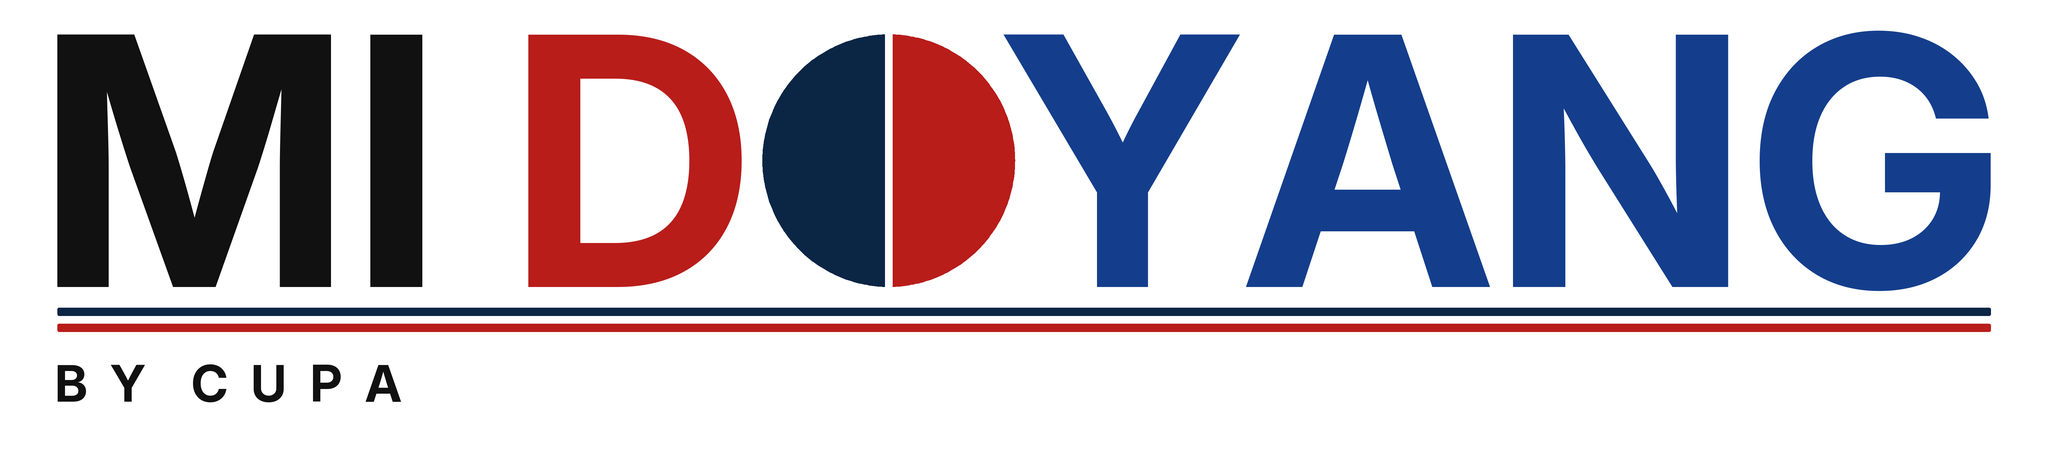
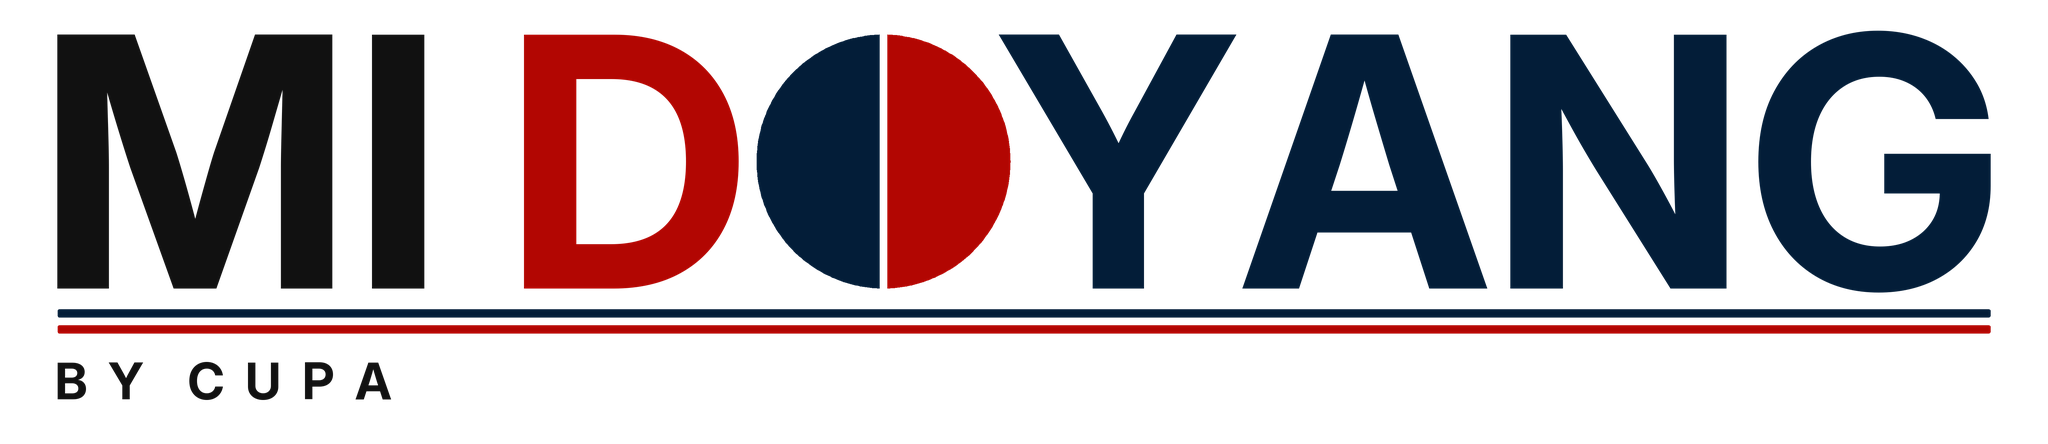
feat(marca): recrea la suite completa de 8 formatos oficiales OVR CUPA para Mi Doyang con halo blanco

diff --git a/app/lib/theme/logo_mi_doyang.dart b/app/lib/theme/logo_mi_doyang.dart
@@ -27,12 +27,12 @@ class LogoMiDoyang extends StatelessWidget {
     this.altoPersonalizado,
   });
 
-  static const double _viewBoxW = 1784.65;
-  static const double _viewBoxH = 400.0;
+  static const double _viewBoxW = 1776.65;
+  static const double _viewBoxH = 385.0;
 
   @override
   Widget build(BuildContext context) {
-    final alto = altoPersonalizado ?? (compacto ? 38.0 : 52.0);
+    final alto = altoPersonalizado ?? (compacto ? 40.0 : 54.0);
     final ancho = alto * (_viewBoxW / _viewBoxH);
 
     return Semantics(
@@ -44,9 +44,18 @@ class LogoMiDoyang extends StatelessWidget {
         child: SizedBox(
           width: ancho,
           height: alto,
-          child: CustomPaint(
-            painter: _PintorLogoCorporativoCupa(sobreOscuro: sobreOscuro),
-          ),
+          child: sobreOscuro
+              ? Image.asset(
+                  'assets/imagenes/logo_mi_doyang_halo.png',
+                  fit: BoxFit.contain,
+                  filterQuality: FilterQuality.high,
+                  errorBuilder: (_, _, _) => const CustomPaint(
+                    painter: _PintorLogoCorporativoCupa(sobreOscuro: true),
+                  ),
+                )
+              : const CustomPaint(
+                  painter: _PintorLogoCorporativoCupa(sobreOscuro: false),
+                ),
         ),
       ),
     );
@@ -58,15 +67,15 @@ class _PintorLogoCorporativoCupa extends CustomPainter {
 
   const _PintorLogoCorporativoCupa({required this.sobreOscuro});
 
-  static const double _vbW = 1784.65;
-  static const double _vbH = 400.0;
+  static const double _vbW = 1776.65;
+  static const double _vbH = 385.0;
   static const double _wordmarkLeft = 50.0;
-  static const double _wordmarkWidth = 1684.65;
+  static const double _wordmarkWidth = 1676.65;
   static const double _baselineY = 250.0;
-  static const double _subY = 350.0;
+  static const double _subY = 346.0;
   static const double _scaleMain = 0.147651;
   static const double _scaleSub = 0.021477;
-  static const double _oCx = 774.49;
+  static const double _oCx = 766.49;
   static const double _oCy = 140.0;
   static const double _oR = 110.0;
   static const double _oGapHalf = 3.5;
@@ -74,21 +83,21 @@ class _PintorLogoCorporativoCupa extends CustomPainter {
   static const List<(String, double)> _mainGlyphs = <(String, double)>[
     ('M', 32.80),
     ('I', 305.66),
-    ('D', 443.39),
-    ('Y', 871.83),
-    ('A', 1083.27),
-    ('N', 1301.20),
-    ('G', 1522.97),
+    ('D', 437.39),
+    ('Y', 863.83),
+    ('A', 1075.27),
+    ('N', 1293.20),
+    ('G', 1514.97),
   ];
 
   // Subtítulo "B Y   C U P A" alineado exactamente al lado izquierdo del logo (x=50)
   static const List<(String, double)> _subGlyphs = <(String, double)>[
     ('B', 47.50),
-    ('Y', 96.02),
-    ('C', 166.78),
-    ('U', 218.84),
-    ('P', 270.09),
-    ('A', 318.03),
+    ('Y', 94.02),
+    ('C', 162.77),
+    ('U', 212.84),
+    ('P', 262.09),
+    ('A', 308.03),
   ];
 
   static final Map<String, Path> _glyphPaths = <String, Path>{

diff --git a/app/lib/theme/tema_doyang.dart b/app/lib/theme/tema_doyang.dart
@@ -33,14 +33,14 @@ abstract final class ColoresDoyang {
   static const sombraSuave = Color(0x140B1B33);
   static const transparente = Color(0x00000000);
 
-  // Tokens oficiales de marca corporativa CUPA (LOGOS CUPA: OVR CUPA / OSS CUPA)
+  // Tokens oficiales exactos de la suite OVR CUPA (#031D38, #B20602, #111111, #F2F2F2)
   static const logoTextoClaro = Color(0xFFF2F2F2);
   static const logoTextoOscuro = Color(0xFF111111);
-  static const logoAzulSobreClaro = Color(0xFF0B2545);
-  static const logoYangSobreClaro = Color(0xFF143E8C);
-  static const logoRojoSobreClaro = Color(0xFFB81D1A);
-  static const logoAzulSobreOscuro = Color(0xFF3B82F6);
-  static const logoRojoSobreOscuro = Color(0xFFEF3B36);
+  static const logoAzulSobreClaro = Color(0xFF031D38);
+  static const logoYangSobreClaro = Color(0xFF031D38);
+  static const logoRojoSobreClaro = Color(0xFFB20602);
+  static const logoAzulSobreOscuro = Color(0xFF031D38);
+  static const logoRojoSobreOscuro = Color(0xFFB20602);
 
   /// Presets de colores amigables que cada academia puede elegir con 1 toque.
   static const presetsColorAcademia = <(String, String)>[

diff --git a/CHANGELOG.md b/CHANGELOG.md
@@ -1,6 +1,8 @@
 # Cambios · Mi Doyang by Cupa (`gestion-academias`)
 
 ## [Sin publicar]
+- **Suite Oficial `MI DOYANG` recreando los 9 formatos maestros de `OVR CUPA` (`marca/` + `LogoMiDoyang` Halo):**
+  - Generación de las 8 variantes maestras vectoriales/PNG en `marca/` (`01_oscuro_doble_linea` a `08_halo_transparente`) con los colores exactos `#031D38`, `#B20602`, `#111111`, `#F2F2F2`, `#111827` y `#041F3C`, tanto en formato **doble línea** (*PVC Reverso*) como en **barra única degradada** (*v2*) y **filete blanco + halo difuminado** sobre oscuro.
 - **Reajuste de Logo Bicolor + Alineación Izquierda de `"BY CUPA"` y Rediseño de Encabezado / Ajustes de Academia:**
   - Actualización de `LogoMiDoyang` y kit `marca/` con `"MI"` en negro/claro, `"D"` en rojo, `"O"` partida azul/roja, `"YANG"` en azul y `"BY CUPA"` alineado al lado izquierdo del logo, además de serie de 6 bocetos comparativos.
   - Corrección de botones de navegación superior (`Dashboard`, `Recepción`, `Padres`, `Instructor`) a pastillas compactas en una sola fila horizontal y rediseño completo de la vista **Ajustes de Academia** (`Identidad y Reglas` sin truncamientos + tabla estructurada de 14 cintas Kup/Poom/Dan con franja continua de extremo a extremo y edición por grado).
